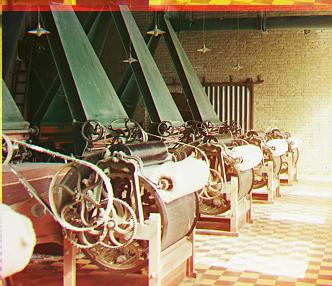
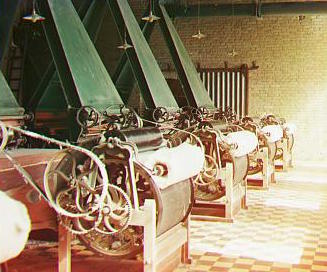
équalisation WB

diff --git a/tp1/web/indexv2.html b/tp1/web/indexv2.html
@@ -414,6 +414,10 @@
         </div>
 
         <br><br> À noter au passage que cet algorithme s'avère tout aussi efficace sur des images de basses résolutions que hautes résolutions.
+      <br><br> De plus, il faut noter que certaines images ont été soumises à un équilibrage des blancs avec la méthode Grey World. Entre autre, les photos 00029u.tif,
+      00737u.tif, 00822u.tif, 00892.tif.
+      <br>Les autres images étaient traitées efficacement par l'algorithme, mais le résultat en sortie s'avérait parfoir plus froid et moins intéressant à mon goût personnel.
+      À cet égard, j'admets avoir une préférence pour les photos un peu plus chaudes.
       </div>
 
     </div>
@@ -640,16 +644,21 @@
 
   </div>
 
-  <div class="HD2">
+  <div class="photoperso">
 
     <h3>
-      <p>Photos résultantes au traitement par l'algorithme 2</p>
+      <p>Photos personnelles traitées par l'algorithme à échelles multiples</p>
     </h3>
 
     Dans ces photos, on peut voir que l'algorithme est très efficace pour les images avec un contenu statique.
     Or, lorsque le sujet est mobile, l'algorithme ne peut pas reconstruire l'image avec réalisme car les 3 images ont été prises à différents moments.
     C'est d'ailleurs un des problèmes auquel Prokudin-Gorskii a du faire face. Parmis mes images, c'est l'image du feu ardent qui le montre le mieux.
-    En effet, la couleur des flames n'est pas reconstituée avec réalisme. 
+    En effet, la couleur des flames n'est pas reconstituée avec réalisme.
+    <b¶>
+    À l'inverse, sur la photo avec la paire de gants sur l'unité de chauffage, on a même du mal à voir que l'image à été constituée à partir de trois images distintes
+    desquelles ont a extrait respectivement le canal rouge, bleu et vert avant des les alignées pour recomposer l'image finale. À cet effet, on voit plus bas les images correspondant à
+    à chacun des canaux de couleur extrait depuis une image distincte. Mentionons au passage que dans ce cas, le modèle rafale utilisé sur l'appareil est intéssant pour prendre les images
+    dans un court laps de temps. L'utilisation d'un trépied serait encore plus intéressant, technique à laquelle Prokudin-Gorskii avait du penser.
 
     <div class="row">
       <div class="col-md-6 portfolio-item">
@@ -676,6 +685,24 @@
           <h5><a href="pictures/perso_aligned_DSC_5596.jpg">(Haute définition)</a></h5>
             <p>Décalage du canal rouge : x=10, y=101<br>Décalage du canal vert : x=-15, y=20</p>
           </div>
+    </div>
+
+    <div class="row">
+      <div class="col-md-4 portfolio-item">
+        <img class="img-responsive" src="pictures/examples/DSC_5599_R.jpg" alt="">
+        <h5><a href="pictures/examples/DSC_5599_R.jpg">(Haute définition)</a></h5>
+        <p>Canal rouge extrait de l'image 1</p>
+      </div>
+      <div class="col-md-4 portfolio-item">
+        <img class="img-responsive" src="pictures/examples/DSC_5599_G.jpg" alt="">
+        <h5><a href="pictures/examples/DSC_5599_G.jpg">(Haute définition)</a></h5>
+        <p>Canal vert extrait de l'image 2</p>
+      </div>
+      <div class="col-md-4 portfolio-item">
+        <img class="img-responsive" src="pictures/examples/DSC_5599_B.jpg" alt="">
+        <h5><a href="pictures/examples/DSC_5599_B.jpg">(Haute définition)</a></h5>
+        <p>Canal bleu extrait de l'image 3</p>
+      </div>
     </div>
 
 

diff --git a/tp1/code/functions/subplot_tight.m b/tp1/code/functions/subplot_tight.m
@@ -1,0 +1,55 @@
+function h=subplot_tight(m,n,p,margins,varargin)
+%function subplot_tight(m,n,p,margins,varargin)
+%
+% Functional purpose: A wrapper function for Matlab function subplot. Adds the ability to define the margins between
+% neighbouring subplots. Unfotrtunately Matlab subplot function lacks this functionality, and the margins between
+% subplots can reach 40% of figure area, which is pretty lavish.  
+%
+% Input arguments (defaults exist):
+%   margins- two elements vector [vertical,horizontal] defining the margins between neighbouring axes. Default value
+%            is 0.01. Note this vale will cause titles legends and labels to collide with the subplots, while presenting
+%            relatively large axis. 
+%
+% Output arguments: same as subplot- none, or axes handle according to function call.
+%
+% Issues & Comments: Note that if additional elements are used in order to be passed to subplot, margins parameter must
+%       be defined. For default margins value use empty element- [].      
+%
+% Author and Date:  Nikolay S. 29/03/2011. 
+% Last update:      Nikolay S. 21/04/2011 (accourding to Alan B comment).
+%
+% Usage example: h=subplot_tight((2,3,1:2,[0.5,0.2])
+
+if (nargin<4) || isempty(margins)
+    margins=[0.01,0.01]; % default margins value- 1% of figure
+end
+
+if length(margins)==1
+    margins(2)=margins;
+end
+
+%note n and m are switched as Matlab indexing is column-wise, while subplot indexing is row-wise :(
+[subplot_col,subplot_row]=ind2sub([n,m],p);  
+
+
+height=(1-(m+1)*margins(1))/m; % single subplot height
+width=(1-(n+1)*margins(2))/n;  % single subplot width
+
+% note subplot suppors vector p inputs- so a merged subplot of higher dimentions will be created
+subplot_cols=1+max(subplot_col)-min(subplot_col); % number of column elements in merged subplot 
+subplot_rows=1+max(subplot_row)-min(subplot_row); % number of row elements in merged subplot   
+
+merged_height=subplot_rows*( height+margins(1) )- margins(1);   % merged subplot height
+merged_width= subplot_cols*( width +margins(2) )- margins(2);   % merged subplot width
+
+merged_bottom=(m-max(subplot_row))*(height+margins(1)) +margins(1); % merged subplot bottom position
+merged_left=min(subplot_col)*(width+margins(2))-width;              % merged subplot left position
+pos_vec=[merged_left merged_bottom merged_width merged_height];
+
+% h_subplot=subplot(m,n,p,varargin{:},'Position',pos_vec);
+% Above line doesn't work as subplot tends to ignore 'position' when same mnp is utilized
+h_subplot=subplot('Position',pos_vec,varargin{:});
+
+if nargout~=0
+    h=h_subplot;
+end

diff --git a/tp1/subplot_tight.m b/tp1/subplot_tight.m
@@ -1,0 +1,55 @@
+function h=subplot_tight(m,n,p,margins,varargin)
+%function subplot_tight(m,n,p,margins,varargin)
+%
+% Functional purpose: A wrapper function for Matlab function subplot. Adds the ability to define the margins between
+% neighbouring subplots. Unfotrtunately Matlab subplot function lacks this functionality, and the margins between
+% subplots can reach 40% of figure area, which is pretty lavish.  
+%
+% Input arguments (defaults exist):
+%   margins- two elements vector [vertical,horizontal] defining the margins between neighbouring axes. Default value
+%            is 0.01. Note this vale will cause titles legends and labels to collide with the subplots, while presenting
+%            relatively large axis. 
+%
+% Output arguments: same as subplot- none, or axes handle according to function call.
+%
+% Issues & Comments: Note that if additional elements are used in order to be passed to subplot, margins parameter must
+%       be defined. For default margins value use empty element- [].      
+%
+% Author and Date:  Nikolay S. 29/03/2011. 
+% Last update:      Nikolay S. 21/04/2011 (accourding to Alan B comment).
+%
+% Usage example: h=subplot_tight((2,3,1:2,[0.5,0.2])
+
+if (nargin<4) || isempty(margins)
+    margins=[0.01,0.01]; % default margins value- 1% of figure
+end
+
+if length(margins)==1
+    margins(2)=margins;
+end
+
+%note n and m are switched as Matlab indexing is column-wise, while subplot indexing is row-wise :(
+[subplot_col,subplot_row]=ind2sub([n,m],p);  
+
+
+height=(1-(m+1)*margins(1))/m; % single subplot height
+width=(1-(n+1)*margins(2))/n;  % single subplot width
+
+% note subplot suppors vector p inputs- so a merged subplot of higher dimentions will be created
+subplot_cols=1+max(subplot_col)-min(subplot_col); % number of column elements in merged subplot 
+subplot_rows=1+max(subplot_row)-min(subplot_row); % number of row elements in merged subplot   
+
+merged_height=subplot_rows*( height+margins(1) )- margins(1);   % merged subplot height
+merged_width= subplot_cols*( width +margins(2) )- margins(2);   % merged subplot width
+
+merged_bottom=(m-max(subplot_row))*(height+margins(1)) +margins(1); % merged subplot bottom position
+merged_left=min(subplot_col)*(width+margins(2))-width;              % merged subplot left position
+pos_vec=[merged_left merged_bottom merged_width merged_height];
+
+% h_subplot=subplot(m,n,p,varargin{:},'Position',pos_vec);
+% Above line doesn't work as subplot tends to ignore 'position' when same mnp is utilized
+h_subplot=subplot('Position',pos_vec,varargin{:});
+
+if nargout~=0
+    h=h_subplot;
+end

diff --git a/tp1/code/sandbox.m b/tp1/code/sandbox.m
@@ -1,19 +1,21 @@
 
 fprintf('-------Reading picture file-------\n');
-filename='00106v.jpg';
+filename='/Users/plauger/Pictures/Photographie Algorithmique/TP1/images/01043u.tif';
 %filename = '00128u.tif';
 
 im1 = imread(filename);
 im1 = im2double(im1);
-B = im1(1:height,:);
-G = im1(height+1:height*2,:);
-R = im1(height*2+1:height*3,:);
 
-B = cropImage(B);
-imshow(B);
+%im1 = rgb2gray(im1);
 
-G = cropImage(G);
-imshow(G);
+%B = im1(1:height,:);
+%G = im1(height+1:height*2,:);
+%R = im1(height*2+1:height*3,:);
+%height = size(im1,1);
 
-R = cropImage(R);
-imshow(R);
+%im1=im1(20:height,:);
+
+%im1 = cat(3, im1, im1, im1);
+
+imshow(im1);
+

diff --git a/tp1/code/functions/question2.m b/tp1/code/functions/question2.m
@@ -1,1 +1,1 @@
-batchProcessQ2('/Users/plauger/Pictures/Photographie Algorithmique/TP1/images/');
+batchProcessQ2_opt('/Users/plauger/Pictures/Photographie Algorithmique/TP1/images/');
